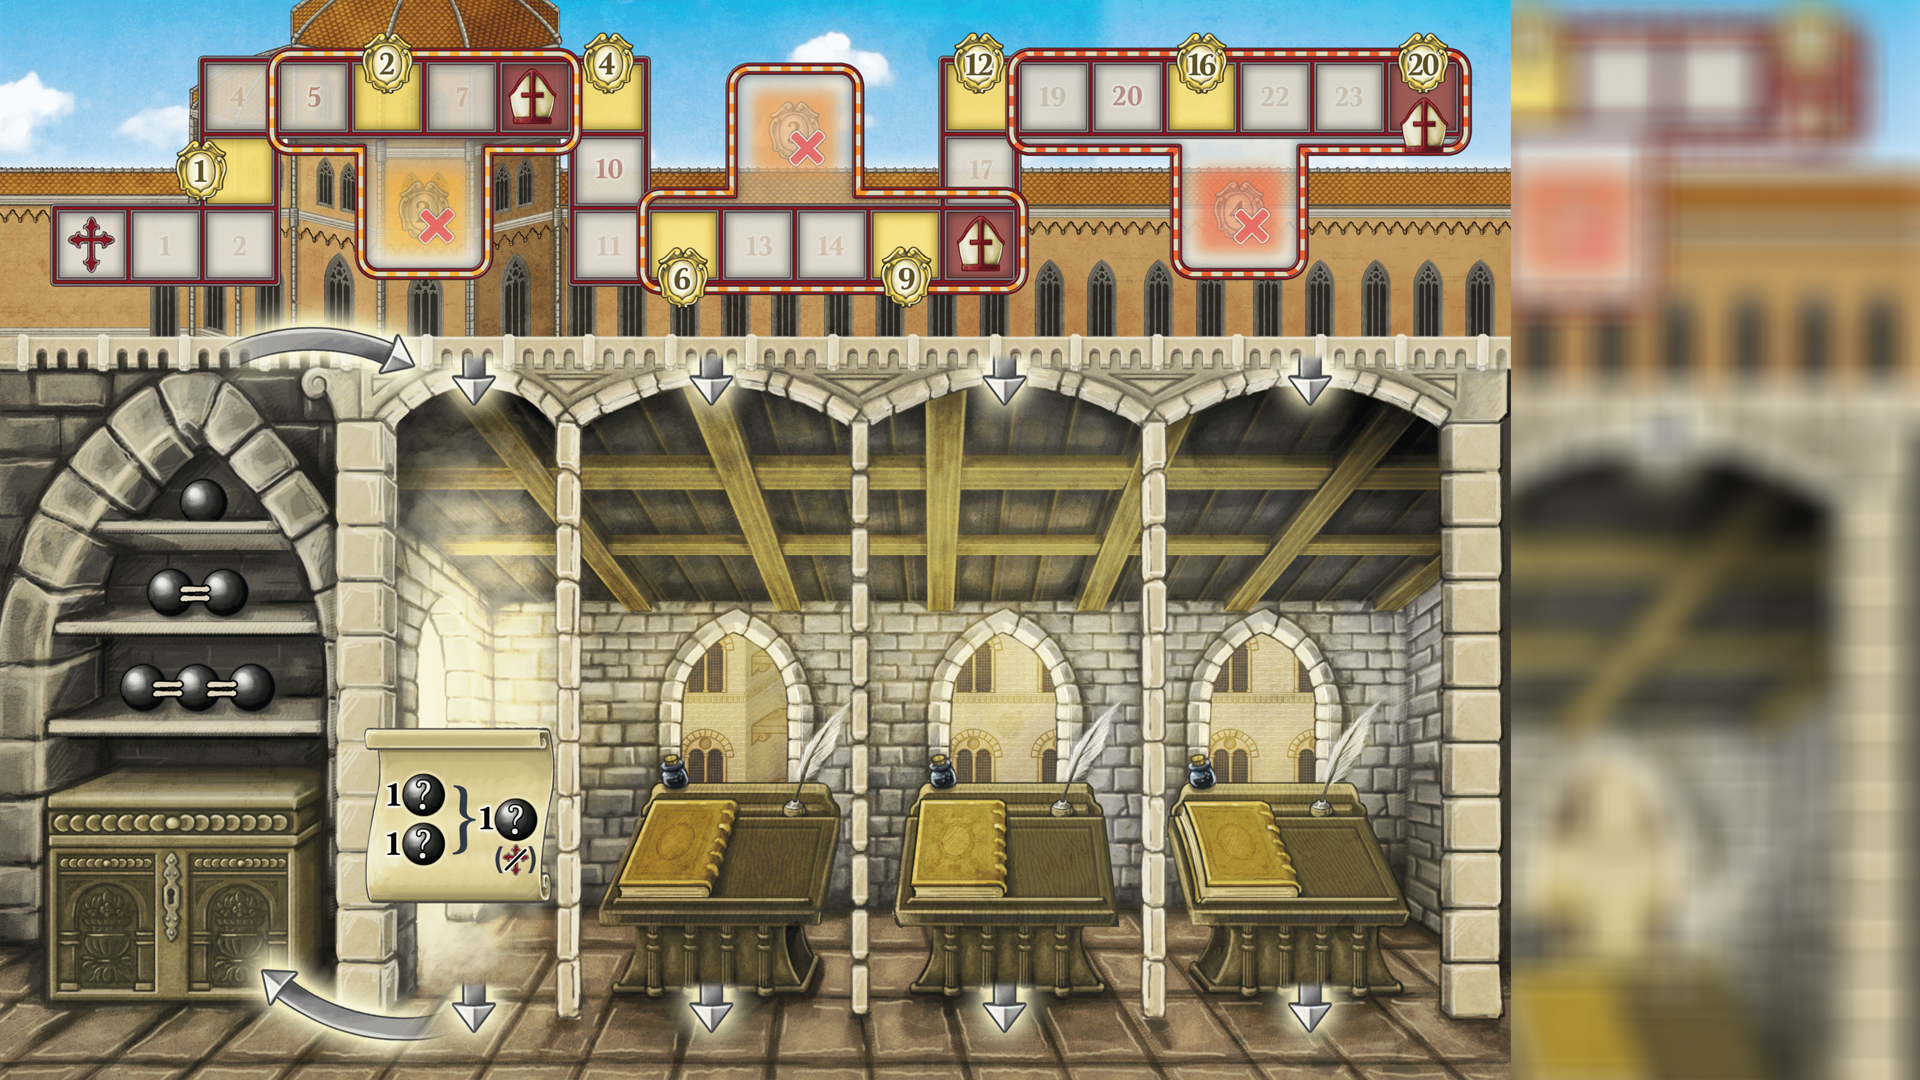
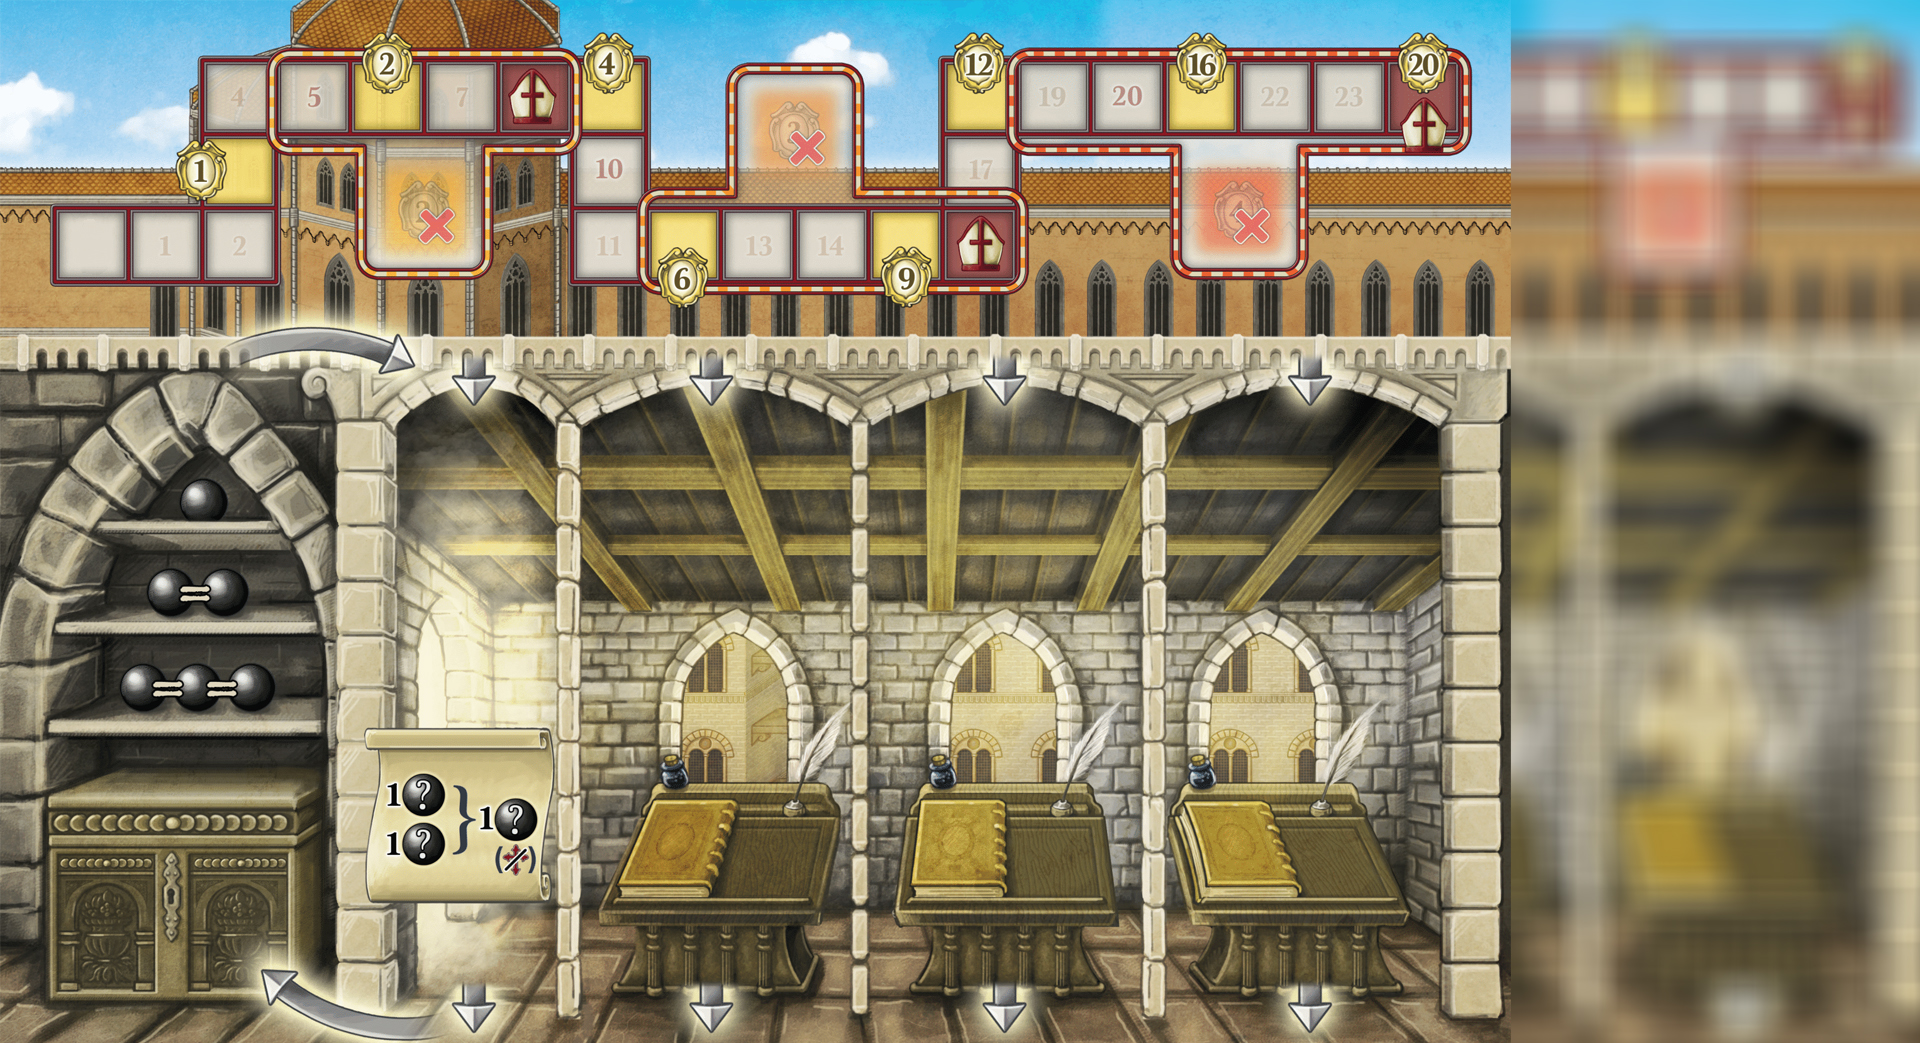
board fxml updated

diff --git a/src/main/resources/assets/bootstrap3.css b/src/main/resources/assets/bootstrap3.css
@@ -966,3 +966,9 @@ VBox > .split-menu-button.last > .arrow-button {
 	-fx-text-fill: #f4eded;
 	-fx-effect: dropshadow(gaussian, #0e1f33, 20, 0.6, 0, 0);
 }
+
+.leaders_name {
+	-fx-text-alignment: center;
+	-fx-font-family: "Caveat";
+	-fx-font-size: 16;
+}

diff --git a/src/main/java/it/polimi/ingsw/view/gui/scenes/Board.java b/src/main/java/it/polimi/ingsw/view/gui/scenes/Board.java
@@ -1,11 +1,14 @@
 package it.polimi.ingsw.view.gui.scenes;
 
+import it.polimi.ingsw.model.util.Resources;
 import it.polimi.ingsw.observers.ViewObservable;
 import javafx.fxml.FXML;
 import javafx.scene.control.Label;
+import javafx.scene.image.Image;
 import javafx.scene.image.ImageView;
 import javafx.scene.layout.BorderPane;
-import javafx.scene.text.Font;
+
+import java.util.ArrayList;
 
 public class Board extends ViewObservable implements SceneController {
 	
@@ -30,14 +33,83 @@ public class Board extends ViewObservable implements SceneController {
 	@FXML private ImageView depot4;
 	@FXML private ImageView depot5;
 	@FXML private ImageView depot6;
+	@FXML private ImageView cross;
 	
+	ArrayList<Coordinates> coordinates;
 	
 	@FXML
 	public void initialize() {
-		System.out.println(getClass().getClassLoader().getResource("assets/font/Caveat-Regular.ttf").toString());
-		Font caveat = Font.loadFont(getClass().getClassLoader().getResourceAsStream("assets/font/Caveat-Regular.ttf"), 40);
-		numCoin.setFont(caveat);
+		//Font caveat = Font.loadFont(getClass().getResourceAsStream("/assets/font/Harrington.ttf"), 40);
+		
+		coordinates = new ArrayList<>();
+		coordinates.add(new Coordinates(0, 61, 212));
+		coordinates.add(new Coordinates(1, 136, 212));
+		coordinates.add(new Coordinates(2, 209, 212));
+		coordinates.add(new Coordinates(3, 209, 140));
+		coordinates.add(new Coordinates(4, 209, 66));
+		coordinates.add(new Coordinates(5, 284, 66));
+		coordinates.add(new Coordinates(6, 358, 66));
+		coordinates.add(new Coordinates(7, 431, 66));
+		coordinates.add(new Coordinates(8, 504, 66));
+		coordinates.add(new Coordinates(9, 581, 66));
+		coordinates.add(new Coordinates(10, 579, 138));
+		coordinates.add(new Coordinates(11, 579, 214));
+		coordinates.add(new Coordinates(12, 655, 214));
+		coordinates.add(new Coordinates(13, 728, 214));
+		coordinates.add(new Coordinates(14, 802, 214));
+		coordinates.add(new Coordinates(15, 877, 214));
+		coordinates.add(new Coordinates(16, 950, 214));
+		coordinates.add(new Coordinates(17, 950, 137));
+		coordinates.add(new Coordinates(18, 950, 66));
+		coordinates.add(new Coordinates(19, 1025, 66));
+		coordinates.add(new Coordinates(20, 1098, 66));
+		coordinates.add(new Coordinates(21, 1172, 66));
+		coordinates.add(new Coordinates(22, 1245, 66));
+		coordinates.add(new Coordinates(23, 1320, 66));
+		coordinates.add(new Coordinates(24, 1394, 66));
+		updateCrossCoords(0);
+		
+		// if game mode is single player
+		cross.setImage(new Image("/assets/board/black_cross.png", 73, 64, true, false));
 	}
 	
+	public void updateCrossCoords(int pos) {
+		cross.setLayoutX(coordinates.get(pos).getX());
+		cross.setLayoutY(coordinates.get(pos).getY());
+	}
+	
+	public void setSlotImage(int slot, int cardNumber) {
+	
+	}
+	
+	public void setNumerosity(Resources res, int num) {
+		switch (res) {
+			case STONE -> numStone.setText(String.valueOf(num));
+			case SHIELD -> numShield.setText(String.valueOf(num));
+			case SERVANT -> numServant.setText(String.valueOf(num));
+			case COIN -> numCoin.setText(String.valueOf(num));
+		}
+	}
+	
+	
+	private class Coordinates {
+		private int pos;
+		private double x;
+		private double y;
+		
+		Coordinates(int pos, double x, double y) {
+			this.pos = pos;
+			this.x = x;
+			this.y = y;
+		}
+		
+		public double getX() {
+			return x;
+		}
+		
+		public double getY() {
+			return y;
+		}
+	}
 	
 }

diff --git a/src/main/java/it/polimi/ingsw/view/gui/scenes/PlayerTabs.java b/src/main/java/it/polimi/ingsw/view/gui/scenes/PlayerTabs.java
@@ -1,7 +1,6 @@
 package it.polimi.ingsw.view.gui.scenes;
 
 import it.polimi.ingsw.observers.ViewObservable;
-import it.polimi.ingsw.view.gui.GUI;
 import javafx.fxml.FXML;
 import javafx.fxml.FXMLLoader;
 import javafx.scene.Node;
@@ -21,9 +20,16 @@ public class PlayerTabs extends ViewObservable implements SceneController{
 	@FXML AnchorPane commonPane;
 	HashMap<Tab, AnchorPane> playersMap;
 
-	public void instantiateTabs(ArrayList<String> nicknameList){
+	public void instantiateTabs(ArrayList<String> nicknameList) {
 
 		playersMap = new HashMap<>();
+		Node node;
+		try {
+			node = FXMLLoader.load(Objects.requireNonNull(getClass().getResource("/it/polimi/ingsw/view/gui/commonBoard.fxml")));
+			commonPane.getChildren().setAll(node);
+		} catch (IOException e) {
+			e.printStackTrace();
+		}
 		//commonPane.getChildren().setAll( (Node) FXMLLoader.load(Objects.requireNonNull(getClass()
 		//		.getResource("it/polimi/ingsw/view/gui/commonBoard.fxml"))));
 		/*

diff --git a/src/main/java/it/polimi/ingsw/view/gui/AppGui.java b/src/main/java/it/polimi/ingsw/view/gui/AppGui.java
@@ -21,7 +21,7 @@ public class AppGui extends Application {
 	@Override
 	public void start(Stage stage) {
 		FXMLLoader loader = new FXMLLoader();
-		loader.setLocation(getClass().getResource("/it/polimi/ingsw/view/gui/connection.fxml"));
+		loader.setLocation(getClass().getResource("/it/polimi/ingsw/view/gui/board.fxml"));
 		Parent rootLayout;
 		try {
 			rootLayout = loader.load();
@@ -35,8 +35,8 @@ public class AppGui extends Application {
 		ClientSideController clientController = new ClientSideController(gui);
 		gui.attach(clientController);
 
-		Connection controller = loader.getController();
-		controller.attach(clientController);
+		//Connection controller = loader.getController();
+		//controller.attach(clientController);
 		
 		stage.setScene(scene);
 		stage.setResizable(false);
